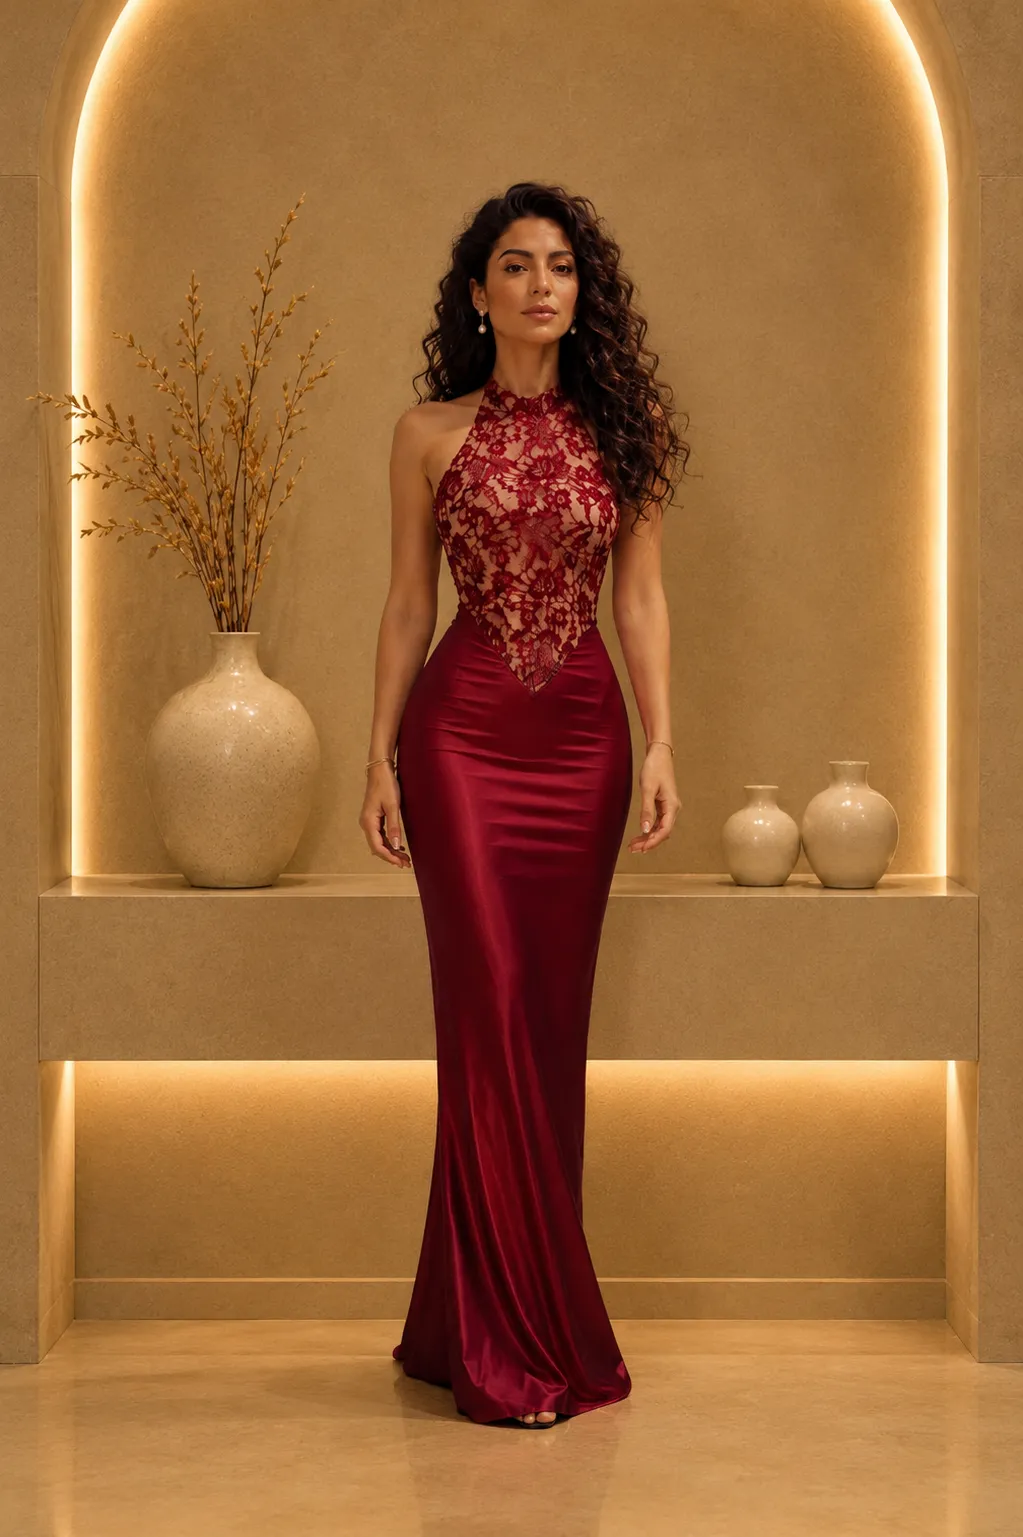
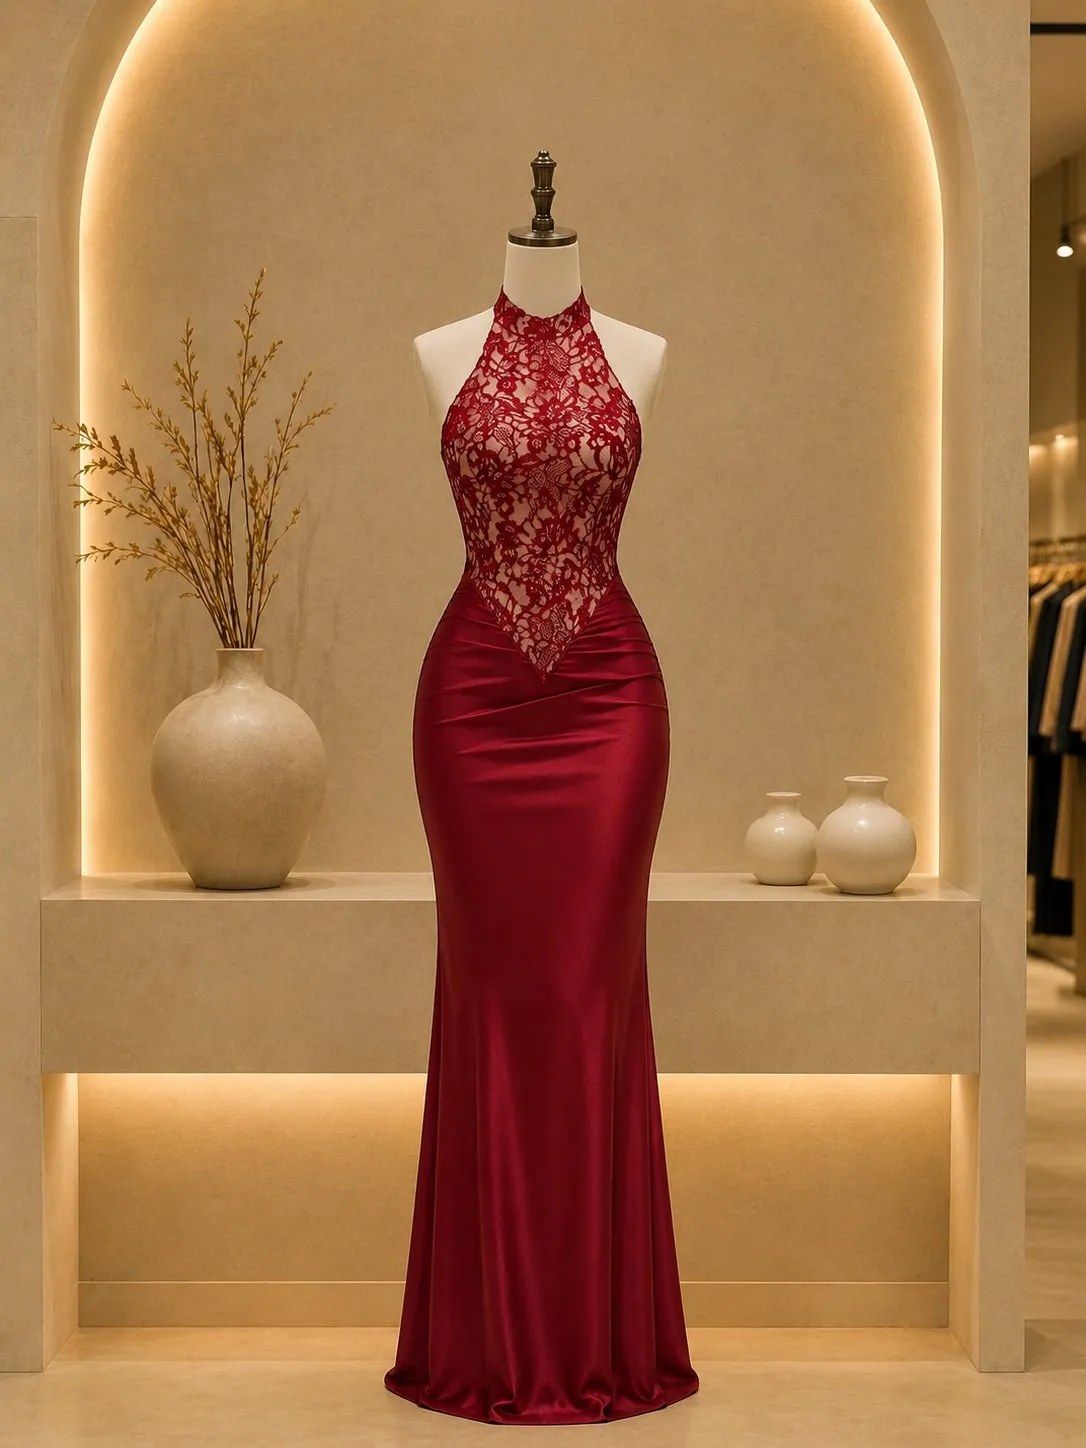
Restore main image, add new photo as product thumbnail

diff --git a/src/data/products.ts b/src/data/products.ts
@@ -185,7 +185,7 @@ const base: BaseFields[] = [
   { id: "noir-black-lace-halter", fabric: "ساتان كريب", category: "السهرة", price: 790, originalPrice: 1090,
     colors: [{name:"أسود مع دانتيل",hex:"#1C1C1C"}], sizes: ["S","M","L","XL"], images: ["/outfits/ivory-grace-abaya.jpg"], rating: 4.8, reviewCount: 0 },
   { id: "botanique-pink-embroidered", fabric: "شيفون مزدوج", category: "المطرّزة", price: 810, originalPrice: 1140, badge: "حصري",
-    colors: [{name:"وردي فاتح",hex:"#FFB7C5"}], sizes: ["S","M","L","XL"], images: ["/outfits/cherry-blossom-abaya.jpg"], rating: 4.9, reviewCount: 0 },
+    colors: [{name:"وردي فاتح",hex:"#FFB7C5"}], sizes: ["S","M","L","XL"], images: ["/outfits/cherry-blossom-abaya.jpg","/outfits/cherry-blossom-abaya-thumb.jpg"], rating: 4.9, reviewCount: 0 },
   { id: "botanique-pink-leopard-maxi", fabric: "كريب ناعم", category: "الكاجوال", price: 620, originalPrice: 850,
     colors: [{name:"وردي غبار",hex:"#D8A49C"}], sizes: ["S","M","L","XL"], images: ["/outfits/obsidian-mist-abaya.jpg"], rating: 4.7, reviewCount: 0 },
 ];
